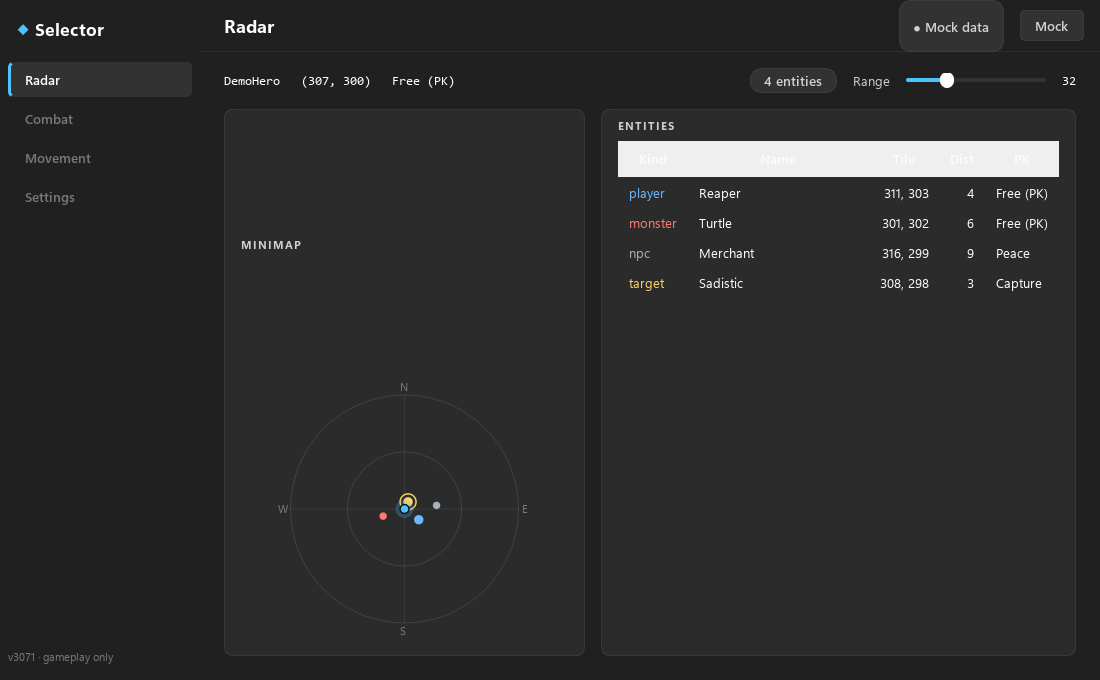
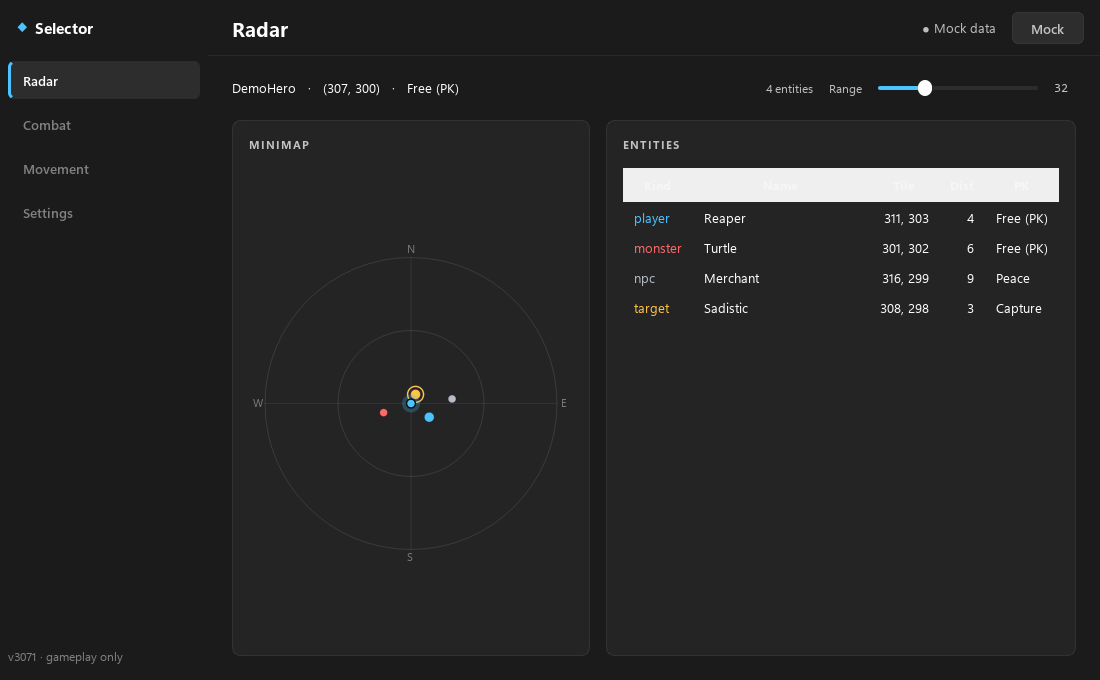
ui: consistency pass — one spacing scale, one control height
Single spacing scale (gap/gutter/pad), one control height (ctl_h) shared by
buttons/toggle/slider, clearer 3-step surface hierarchy, distinct entity hues.
Drop the mismatched status/count "pills" for plain dot+label; align header and
radar strip vertically; even card padding; hero line uses UI font + separators.

diff --git a/src/selector/ui/theme.py b/src/selector/ui/theme.py
@@ -1,9 +1,9 @@
 """ui/theme — the design system (tokens + global stylesheet).
 
-A **Windows 11 / Fluent dark** palette: layered neutral grays (Mica-style, not
-harsh black — comfortable for long sessions), a Win11 blue accent, Segoe UI
-Variable, rounded Fluent controls. Pure data + a QSS builder (no widgets), so
-the entity colors here are shared by both the table and the minimap.
+A **Windows 11 / Fluent dark** system built on a *single* spacing scale, one
+control height, and a clear 3-step surface hierarchy so every control lines up.
+Pure data + a QSS builder (no widgets). Entity colors are shared by the table
+and the minimap.
 """
 from __future__ import annotations
 
@@ -14,47 +14,58 @@ from selector.core.models import EntityKind
 
 @dataclass(frozen=True)
 class Palette:
-    """Color tokens (hex or rgba() strings, QSS-ready)."""
+    """Color tokens (hex / rgba() strings, QSS-ready). 3 surface steps."""
 
-    # Fluent dark "Mica" layering: base -> layer -> control, all neutral grays.
-    bg: str = "#202020"                          # window base (Mica approx)
-    surface: str = "#272727"                     # nav pane / sidebar layer
-    card: str = "#2B2B2B"                         # cards / panels (layer fill)
-    elevated: str = "#323232"                     # controls / hover fill
-    border: str = "rgba(255,255,255,0.08)"        # card/control stroke
-    border_soft: str = "rgba(255,255,255,0.05)"
+    bg: str = "#1B1B1B"          # window base
+    sidebar: str = "#1F1F1F"     # nav pane
+    card: str = "#242424"        # panels
+    control: str = "#2D2D2D"     # buttons / inputs
+    control_hover: str = "#353535"
+    control_down: str = "#2A2A2A"
+
+    border: str = "rgba(255,255,255,0.08)"
     divider: str = "rgba(255,255,255,0.06)"
 
     text: str = "#FFFFFF"
-    muted: str = "rgba(255,255,255,0.78)"         # secondary text
-    faint: str = "rgba(255,255,255,0.40)"         # tertiary / disabled
+    muted: str = "rgba(255,255,255,0.72)"
+    faint: str = "rgba(255,255,255,0.45)"
 
-    accent: str = "#4CC2FF"                        # Win11 dark accent (blue)
-    accent_hover: str = "#3AA9E0"
-    on_accent: str = "#00263D"                     # dark text on accent fill
-    danger: str = "#FF7B72"
-    warn: str = "#FFD166"
+    accent: str = "#4CC2FF"
+    accent_hover: str = "#5BC9FF"
+    on_accent: str = "#04304A"
 
-    # entity-kind colors (shared by table + minimap)
-    self_: str = "#4CC2FF"
-    player: str = "#6CB8FF"
-    monster: str = "#FF7B72"
-    npc: str = "#A9B2BD"
-    target: str = "#FFD166"
+    # entity-kind colors (distinct hues; shared by table + minimap)
+    self_: str = "#33D9B2"
+    player: str = "#4CC2FF"
+    monster: str = "#FF6B6B"
+    npc: str = "#B6BDC7"
+    target: str = "#FFC24B"
 
 
 @dataclass(frozen=True)
 class Metrics:
-    """Spacing / radius / sizing scale (px) — Fluent-ish."""
+    """One spacing scale + one control height; everything aligns to these."""
 
-    pad_s: int = 4
-    pad: int = 8
-    pad_l: int = 16
-    pad_xl: int = 24
-    radius: int = 8          # cards / buttons
-    radius_s: int = 5        # nav items / small controls
-    sidebar_w: int = 200
-    header_h: int = 52
+    gap_s: int = 6
+    gap: int = 8
+    gutter: int = 16            # standard spacing between groups
+    pad_card: int = 16
+    pad_page: int = 24
+
+    ctl_h: int = 32             # ALL interactive controls share this height
+    header_h: int = 56
+    nav_h: int = 38
+    sidebar_w: int = 208
+
+    radius: int = 8             # cards
+    radius_ctl: int = 6         # buttons / inputs
+
+    fs_title: int = 20
+    fs_brand: int = 15
+    fs_body: int = 13
+    fs_small: int = 12
+    fs_caps: int = 11
+
     font_ui: str = '"Segoe UI Variable", "Segoe UI"'
     font_mono: str = '"Cascadia Mono", "Consolas", monospace'
 
@@ -82,73 +93,74 @@ def qss() -> str:
     return f"""
     * {{
         font-family: {m.font_ui};
-        font-size: 13px;
+        font-size: {m.fs_body}px;
         color: {c.text};
         outline: none;
     }}
     QWidget#root, QMainWindow {{ background: {c.bg}; }}
 
-    /* sidebar (NavigationView pane) */
-    QWidget#sidebar {{ background: {c.surface}; }}
-    QLabel#brand {{ font-size: 17px; font-weight: 700; color: {c.text}; }}
-    QLabel#brandAccent {{ font-size: 17px; font-weight: 700; color: {c.accent}; }}
-    QLabel#navHint {{ color: {c.faint}; font-size: 11px; }}
+    /* sidebar */
+    QWidget#sidebar {{ background: {c.sidebar}; }}
+    QLabel#brand {{ font-size: {m.fs_brand}px; font-weight: 700; }}
+    QLabel#brandAccent {{ font-size: {m.fs_brand}px; font-weight: 700; color: {c.accent}; }}
+    QLabel#navHint {{ color: {c.faint}; font-size: {m.fs_small}px; }}
     QPushButton#nav {{
-        text-align: left; padding: 9px 12px 9px 14px; border: none;
-        border-left: 3px solid transparent; border-radius: {m.radius_s}px;
+        text-align: left; padding: 0 12px; min-height: {m.nav_h}px; border: none;
+        border-left: 3px solid transparent; border-radius: {m.radius_ctl}px;
         color: {c.muted}; background: transparent; font-weight: 600;
     }}
     QPushButton#nav:hover {{ background: {c.divider}; color: {c.text}; }}
     QPushButton#nav:checked {{
-        background: {c.elevated}; color: {c.text}; border-left: 3px solid {c.accent};
+        background: {c.control}; color: {c.text}; border-left: 3px solid {c.accent};
     }}
-    QPushButton#nav:disabled {{ color: {c.faint}; }}
+    QPushButton#nav:disabled {{ color: {c.faint}; background: transparent; }}
 
     /* header */
     QWidget#header {{ background: {c.bg}; border-bottom: 1px solid {c.divider}; }}
-    QLabel#pageTitle {{ font-size: 18px; font-weight: 700; }}
-    QLabel#muted {{ color: {c.muted}; }}
+    QLabel#pageTitle {{ font-size: {m.fs_title}px; font-weight: 700; }}
+    QLabel#muted {{ color: {c.muted}; font-size: {m.fs_small}px; }}
+    QLabel#status {{ color: {c.muted}; }}
     QLabel#mono {{ font-family: {m.font_mono}; color: {c.text}; }}
-
-    /* status pill */
-    QLabel#pill {{
-        background: {c.elevated}; border: 1px solid {c.border};
-        border-radius: 11px; padding: 3px 10px; color: {c.muted}; font-weight: 600;
-    }}
+    QLabel#monoMuted {{ font-family: {m.font_mono}; color: {c.muted}; }}
 
     /* cards / panels */
     QFrame#card {{
         background: {c.card}; border: 1px solid {c.border}; border-radius: {m.radius}px;
     }}
-    QLabel#cardTitle {{ color: {c.muted}; font-weight: 700; font-size: 11px; letter-spacing: 1px; }}
+    QLabel#cardTitle {{
+        color: {c.muted}; font-weight: 700; font-size: {m.fs_caps}px; letter-spacing: 1px;
+    }}
 
     /* table */
     QTableView {{
-        background: transparent; border: none; gridline-color: {c.border_soft};
+        background: transparent; border: none; gridline-color: transparent;
         selection-background-color: {c.divider}; selection-color: {c.text};
     }}
     QHeaderView::section {{
-        background: transparent; color: {c.muted}; border: none;
-        border-bottom: 1px solid {c.border}; padding: 7px 8px; font-weight: 600;
+        background: transparent; color: {c.faint}; border: none;
+        border-bottom: 1px solid {c.border}; padding: 6px 8px;
+        font-weight: 700; font-size: {m.fs_small}px;
     }}
     QTableView::item {{ padding: 5px 8px; border: none; }}
 
-    /* Fluent segmented toggle (Mock/Live) */
+    /* buttons (one style family; #toggle is the segmented variant) */
     QPushButton#toggle {{
-        background: {c.elevated}; border: 1px solid {c.border}; border-radius: {m.radius_s}px;
-        padding: 6px 14px; color: {c.muted}; font-weight: 600;
+        background: {c.control}; border: 1px solid {c.border}; border-radius: {m.radius_ctl}px;
+        padding: 0 14px; color: {c.muted}; font-weight: 600;
     }}
-    QPushButton#toggle:hover {{ background: {c.divider}; color: {c.text}; }}
+    QPushButton#toggle:hover {{ background: {c.control_hover}; color: {c.text}; }}
     QPushButton#toggle:checked {{
         background: {c.accent}; border-color: {c.accent}; color: {c.on_accent};
     }}
 
-    /* sliders (radius) */
-    QSlider::groove:horizontal {{ height: 4px; background: {c.elevated}; border-radius: 2px; }}
+    /* slider */
+    QSlider {{ min-height: {m.ctl_h}px; }}
+    QSlider::groove:horizontal {{ height: 4px; background: {c.control}; border-radius: 2px; }}
     QSlider::sub-page:horizontal {{ background: {c.accent}; border-radius: 2px; }}
     QSlider::handle:horizontal {{
         background: {c.text}; width: 14px; height: 14px; margin: -6px 0; border-radius: 7px;
     }}
+    QSlider::handle:horizontal:hover {{ background: {c.accent}; }}
 
     /* scrollbars */
     QSplitter::handle {{ background: transparent; }}

diff --git a/src/selector/ui/pages/radar_page.py b/src/selector/ui/pages/radar_page.py
@@ -23,16 +23,17 @@ from selector.viewmodels.radar_vm import RadarViewModel
 
 
 def _card(title: str, body: QWidget) -> QFrame:
-    """Wrap a widget in a titled Fluent card."""
+    """Wrap a widget in a titled Fluent card (even padding all round)."""
     frame = QFrame()
     frame.setObjectName("card")
     lay = QVBoxLayout(frame)
-    lay.setContentsMargins(METRICS.pad_l, METRICS.pad, METRICS.pad_l, METRICS.pad_l)
-    lay.setSpacing(METRICS.pad)
+    pad = METRICS.pad_card
+    lay.setContentsMargins(pad, pad, pad, pad)
+    lay.setSpacing(METRICS.gutter)
     cap = QLabel(title.upper())
     cap.setObjectName("cardTitle")
     lay.addWidget(cap)
-    lay.addWidget(body)
+    lay.addWidget(body, 1)
     return frame
 
 
@@ -47,8 +48,10 @@ class RadarPage(QWidget):
         self._table = EntityTable(self._model)
 
         root = QVBoxLayout(self)
-        root.setContentsMargins(METRICS.pad_xl, METRICS.pad_l, METRICS.pad_xl, METRICS.pad_xl)
-        root.setSpacing(METRICS.pad_l)
+        root.setContentsMargins(
+            METRICS.pad_page, METRICS.gutter, METRICS.pad_page, METRICS.pad_page
+        )
+        root.setSpacing(METRICS.gutter)
         root.addLayout(self._build_strip())
 
         split = QSplitter(Qt.Orientation.Horizontal)
@@ -56,35 +59,38 @@ class RadarPage(QWidget):
         split.addWidget(_card("Entities", self._table))
         split.setStretchFactor(0, 3)
         split.setStretchFactor(1, 4)
-        split.setHandleWidth(METRICS.pad_l)
+        split.setHandleWidth(METRICS.gutter)
         root.addWidget(split, 1)
 
         vm.updated.connect(self._refresh)
         self._refresh()
 
     def _build_strip(self) -> QHBoxLayout:
+        v = Qt.AlignmentFlag.AlignVCenter
         strip = QHBoxLayout()
-        strip.setSpacing(METRICS.pad_l)
-        self._hero_lbl = QLabel("—")
-        self._hero_lbl.setObjectName("mono")
-        self._count_lbl = QLabel("0 entities")
-        self._count_lbl.setObjectName("pill")
-        strip.addWidget(self._hero_lbl)
+        strip.setSpacing(METRICS.gutter)
+
+        self._hero_lbl = QLabel("—")              # name + coords, default UI font
+        strip.addWidget(self._hero_lbl, 0, v)
         strip.addStretch(1)
-        strip.addWidget(self._count_lbl)
+
+        self._count_lbl = QLabel("0 entities")
+        self._count_lbl.setObjectName("muted")
+        strip.addWidget(self._count_lbl, 0, v)
 
         rng = QLabel("Range")
         rng.setObjectName("muted")
         self._radius = QSlider(Qt.Orientation.Horizontal)
         self._radius.setRange(8, 96)
         self._radius.setValue(self._vm.snapshot.radius)
-        self._radius.setFixedWidth(140)
+        self._radius.setFixedWidth(160)
         self._radius_val = QLabel(f"{self._vm.snapshot.radius}")
-        self._radius_val.setObjectName("mono")
+        self._radius_val.setObjectName("monoMuted")
+        self._radius_val.setFixedWidth(22)
         self._radius.valueChanged.connect(self._on_radius)
-        strip.addWidget(rng)
-        strip.addWidget(self._radius)
-        strip.addWidget(self._radius_val)
+        strip.addWidget(rng, 0, v)
+        strip.addWidget(self._radius, 0, v)
+        strip.addWidget(self._radius_val, 0, v)
         return strip
 
     def _on_radius(self, value: int) -> None:
@@ -95,7 +101,10 @@ class RadarPage(QWidget):
         snap = self._vm.snapshot
         if snap.hero is not None:
             h = snap.hero
-            self._hero_lbl.setText(f"{h.name or '—'}   ({h.x}, {h.y})   {h.pk_name or ''}")
+            parts = [h.name or "—", f"({h.x}, {h.y})"]
+            if h.pk_name:
+                parts.append(h.pk_name)
+            self._hero_lbl.setText("   ·   ".join(parts))
         else:
             self._hero_lbl.setText("not in world")
         self._count_lbl.setText(f"{len(snap.entities)} entities")

diff --git a/src/selector/ui/main_window.py b/src/selector/ui/main_window.py
@@ -72,8 +72,8 @@ class MainWindow(QMainWindow):
         header.setObjectName("header")
         header.setFixedHeight(METRICS.header_h)
         lay = QHBoxLayout(header)
-        lay.setContentsMargins(METRICS.pad_xl, 0, METRICS.pad_l, 0)
-        lay.setSpacing(METRICS.pad_l)
+        lay.setContentsMargins(METRICS.pad_page, 0, METRICS.gutter, 0)
+        lay.setSpacing(METRICS.gutter)
 
         self._title = QLabel(_TITLES[0])
         self._title.setObjectName("pageTitle")
@@ -81,15 +81,17 @@ class MainWindow(QMainWindow):
         lay.addStretch(1)
 
         self._status = QLabel("—")
-        self._status.setObjectName("pill")
-        lay.addWidget(self._status)
+        self._status.setObjectName("status")
+        lay.addWidget(self._status, 0, Qt.AlignmentFlag.AlignVCenter)
 
         self._toggle = QPushButton("Mock")
         self._toggle.setObjectName("toggle")
         self._toggle.setCheckable(True)
+        self._toggle.setFixedHeight(METRICS.ctl_h)
+        self._toggle.setFixedWidth(72)
         self._toggle.setToolTip("Switch between Mock data and the live game")
         self._toggle.toggled.connect(self._on_toggle)
-        lay.addWidget(self._toggle)
+        lay.addWidget(self._toggle, 0, Qt.AlignmentFlag.AlignVCenter)
         return header
 
     def _placeholder(self, title: str) -> QWidget:

diff --git a/src/selector/ui/sidebar.py b/src/selector/ui/sidebar.py
@@ -35,11 +35,11 @@ class Sidebar(QWidget):
         self.setFixedWidth(METRICS.sidebar_w)
 
         lay = QVBoxLayout(self)
-        lay.setContentsMargins(METRICS.pad, METRICS.pad_l, METRICS.pad, METRICS.pad_l)
-        lay.setSpacing(METRICS.pad_s)
+        lay.setContentsMargins(METRICS.gap, METRICS.gutter, METRICS.gap, METRICS.gutter)
+        lay.setSpacing(METRICS.gap_s)
 
         brand = QHBoxLayout()
-        brand.setContentsMargins(METRICS.pad, 0, 0, METRICS.pad_l)
+        brand.setContentsMargins(METRICS.gap, 0, 0, METRICS.gutter)
         dot = QLabel("◆")
         dot.setObjectName("brandAccent")
         name = QLabel("Selector")